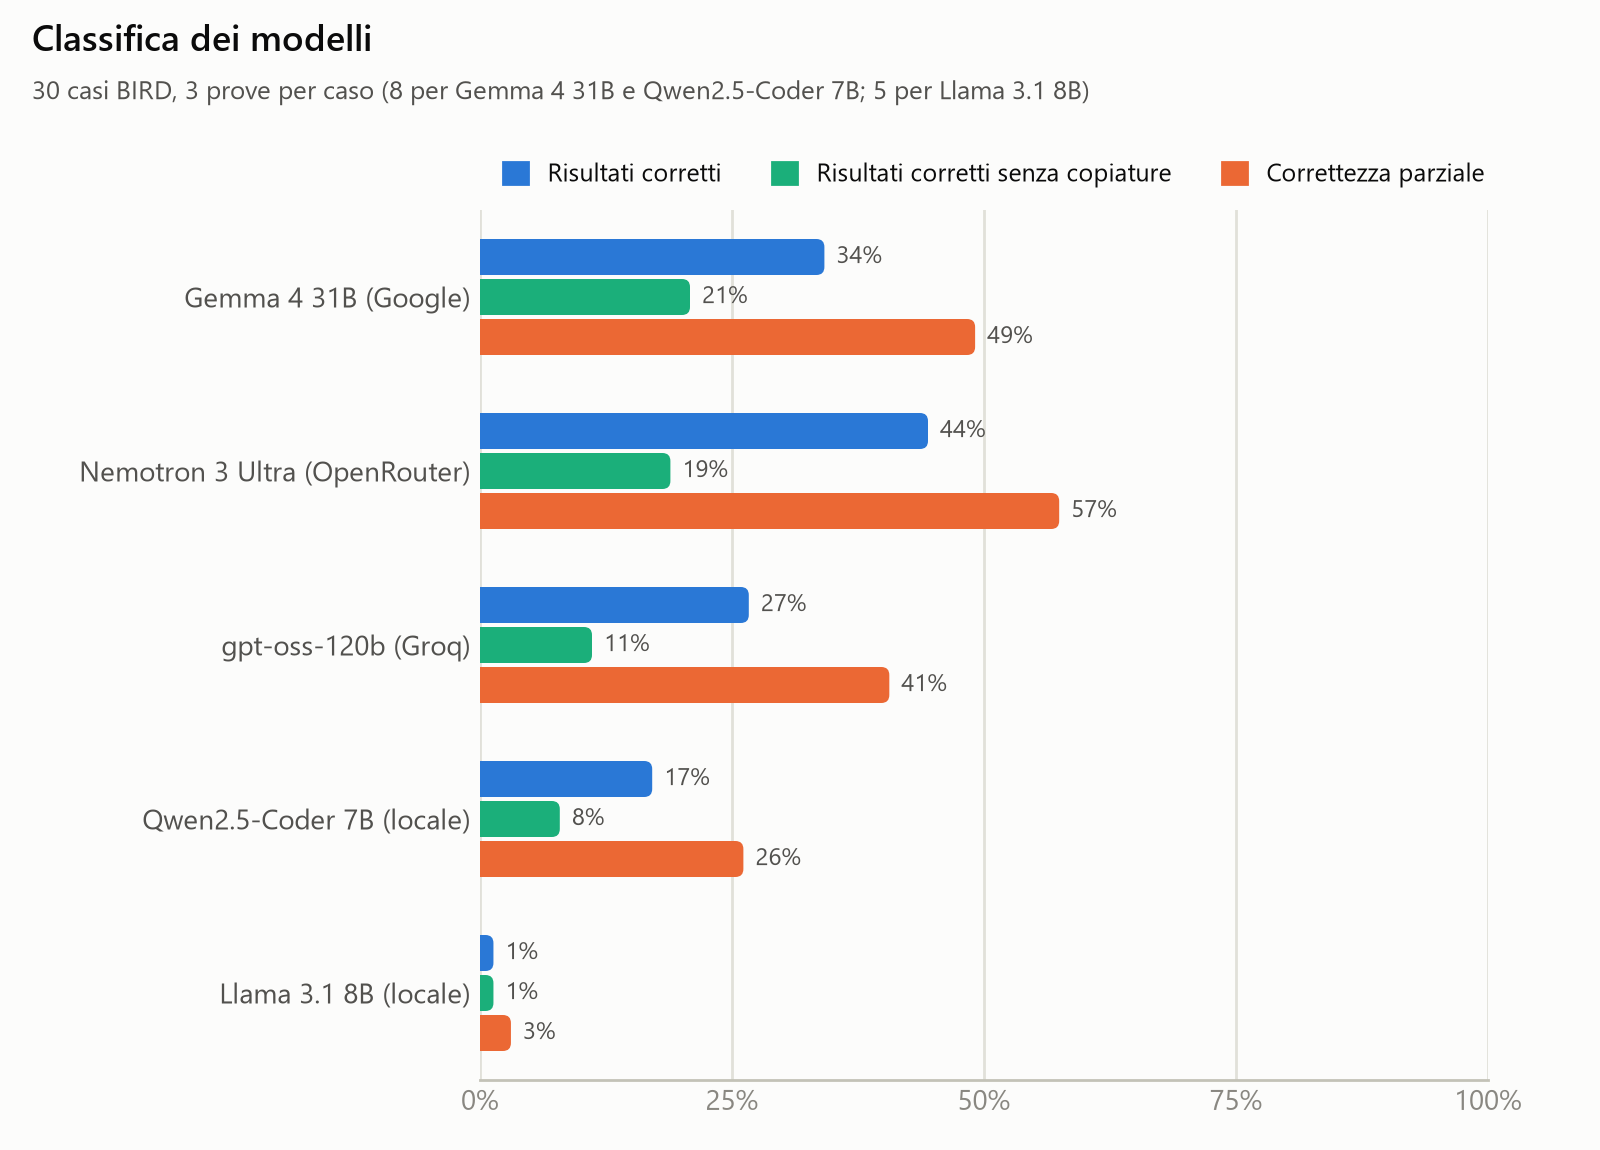
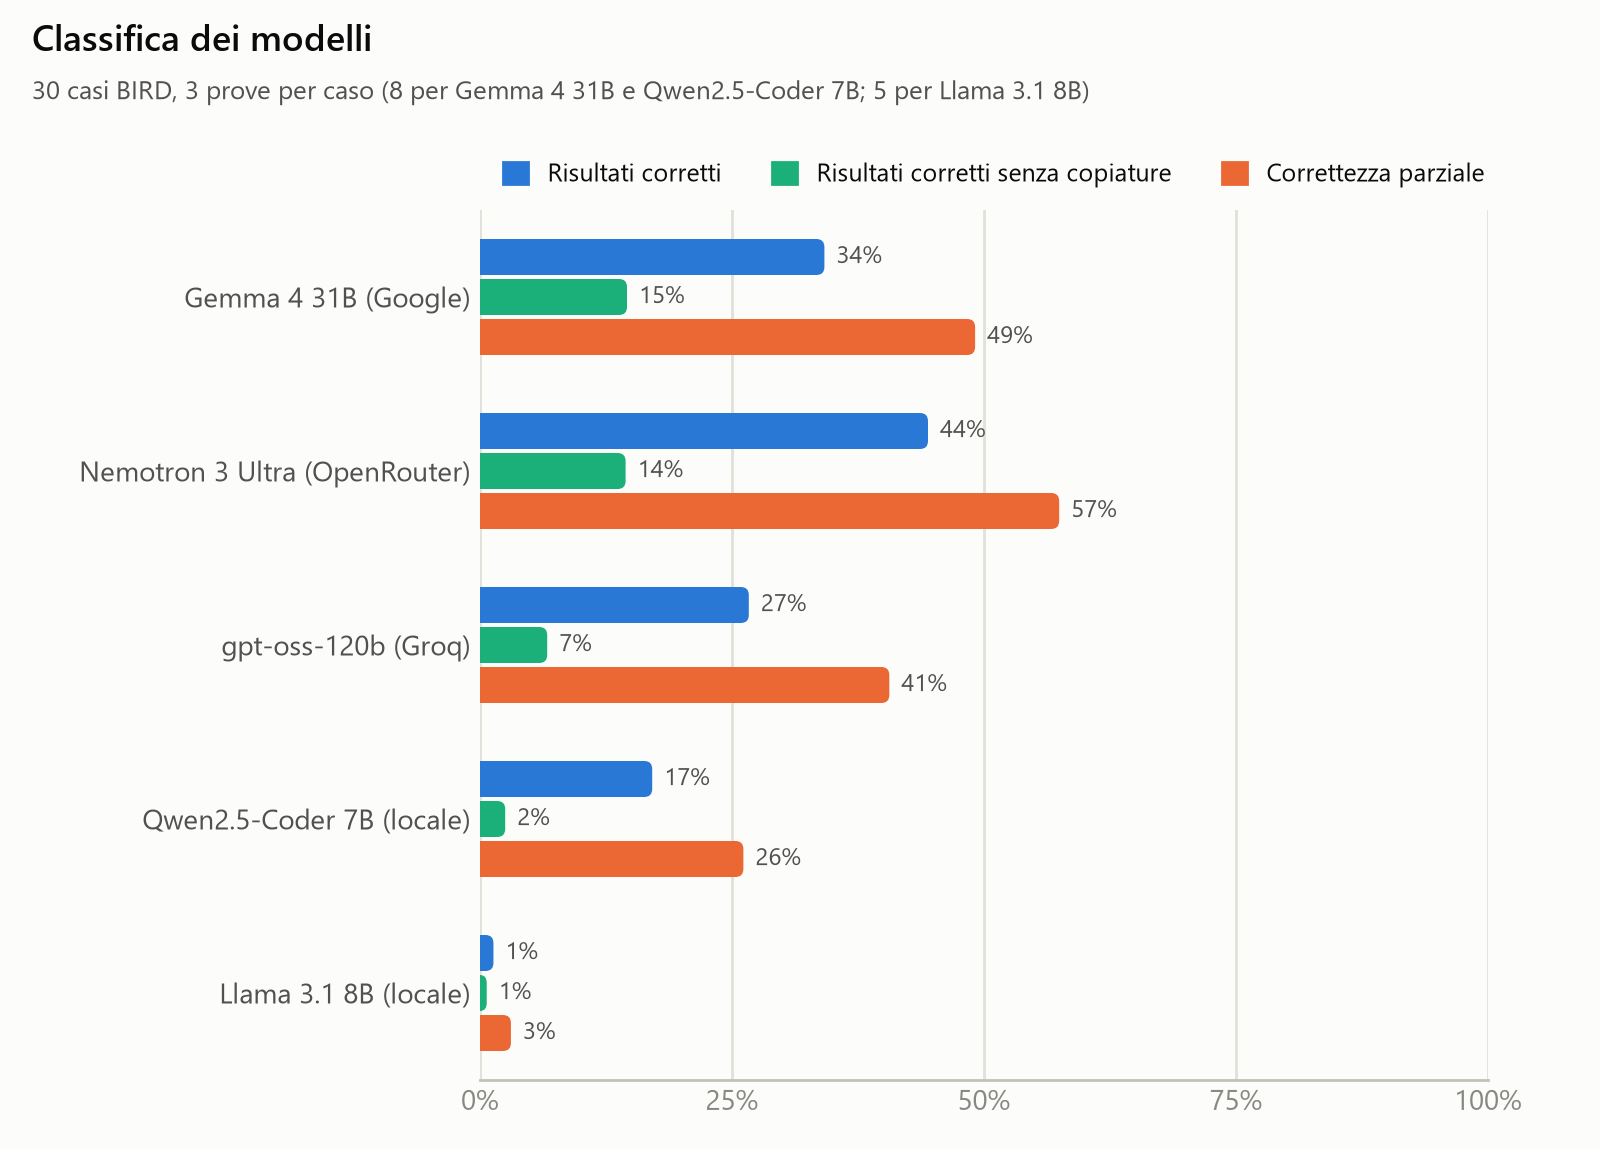
Controllo copiature anche sul testo della query
Alcuni modelli scrivono a mano i valori della tabella finale e poi li uniscono ai dati veri con un JOIN o li usano in un filtro IN (...): togliendo righe a caso la loro query e quella vera perdono le stesse righe, quindi il controllo sui dati modificati non li vedeva. Il nuovo controllo guarda il testo della query: se contiene scritti a mano almeno meta' dei valori di testo della tabella finale (e almeno due), e' una copiatura. Un esatto e' robusto solo se supera entrambi i controlli.

Verificato a mano sui casi segnalati (1044, 1357, 1422, 573, 978): sono tutte copiature vere. Classifica (corretti senza copiature): Gemma 20,8 -> 14,6%, Nemotron 18,9 -> 14,4%, gpt-oss 11,1 -> 6,7%, Qwen 7,9 -> 2,5%, Llama 1,3 -> 0,7%. README, tabelle e grafico aggiornati.

diff --git a/controllo_copiatura.py b/controllo_copiatura.py
@@ -8,13 +8,22 @@ chi ha copiato i valori fallisce, chi ha trovato una trasformazione coerente coi
 
 Le varianti dipendono solo dal caso (seme fisso), quindi sono identiche per tutti i modelli.
 Si tengono solo varianti in cui la query gold da' un risultato diverso dall'originale, altrimenti
-copiare passerebbe comunque. Aggiunge "valutazione_robusta" ai JSON in risultati_benchmark/; non
-richiama nessun modello e puo' girare mentre il benchmark e' in corso.
+copiare passerebbe comunque.
+
+Secondo controllo, sul testo della query: alcuni modelli scrivono a mano i valori della tabella
+target e poi li uniscono alle tabelle di partenza con un JOIN, o li usano in un filtro IN (...).
+Togliendo righe a caso la loro query e quella gold perdono le stesse righe, quindi il primo
+controllo non le vede; il secondo si' (vedi valori_copiati). Un esatto e' robusto solo se passa
+entrambi i controlli.
+
+Aggiunge "valutazione_robusta" ai JSON in risultati_benchmark/; non richiama nessun modello e puo'
+girare mentre il benchmark e' in corso.
 """
 import glob
 import json
 import os
 import random
+import re
 import time
 
 from funzioni_comuni import _q, carica_caso, valuta_accuratezza
@@ -99,9 +108,32 @@ def valuta_su_variante(percorso_caso, gold, seme, query_modello):
     return valutazione
 
 
+def valori_copiati(sql, righe_finali):
+    """Testi della tabella target scritti a mano nella query (es. SELECT 'Trent', 'Smith' UNION ALL ...).
+
+    Un filtro come WHERE state = 'Illinois' e' legittimo; diventa una copiatura quando nella query
+    compaiono almeno meta' dei testi della tabella target (e almeno due). Serve per le copiature che
+    il controllo sui dati modificati non vede: valori scritti a mano e poi uniti alle tabelle di
+    partenza con un JOIN, o usati in un filtro IN (...). Togliendo righe a caso, la query copiata e
+    quella gold perdono le stesse righe e il risultato coincide ancora.
+    """
+    senza_commenti = re.sub(r"--[^\n]*|/\*.*?\*/", "", sql or "", flags=re.DOTALL)
+    scritti_a_mano = {t.replace("''", "'") for t in re.findall(r"'((?:[^']|'')*)'", senza_commenti)}
+    testi_finali = {v for riga in righe_finali for v in riga if isinstance(v, str) and len(v.strip()) >= 2}
+    copiati = sorted(testi_finali & scritti_a_mano)
+    return len(testi_finali) >= 2 and len(copiati) >= max(2, len(testi_finali) / 2), copiati
+
+
+def righe_target(percorso_caso):
+    conn, cursor, _, nome_target = carica_caso(percorso_caso)
+    righe = cursor.execute(f"SELECT * FROM {_q(nome_target)}").fetchall()
+    conn.close()
+    return righe
+
+
 def main():
     percorsi_casi = {id_caso(p): p for p in elenco_casi()}
-    cache_varianti = {}
+    cache_varianti, cache_target = {}, {}
     aggiornati = 0
     for percorso_json in sorted(glob.glob(os.path.join(CARTELLA_RISULTATI, "*.json"))):
         try:
@@ -109,10 +141,22 @@ def main():
                 risultato = json.load(f)
         except (json.JSONDecodeError, OSError):
             continue  # file in scrittura dal benchmark in corso: verra' ripreso al prossimo avvio
-        if "valutazione_robusta" in risultato or risultato["caso"] not in percorsi_casi:
+        if risultato["caso"] not in percorsi_casi:
+            continue
+        esatto = bool((risultato.get("valutazione") or {}).get("esatto"))
+        robusta = risultato.get("valutazione_robusta")
+        if robusta is not None and "copiatura_nel_testo" in robusta:
+            continue  # gia' controllato con entrambi i metodi
+        if robusta is not None:
+            # Risultato gia' controllato sui dati modificati: manca solo il controllo sul testo.
+            aggiungi_controllo_testo(risultato, percorsi_casi, cache_target)
+            salva(percorso_json, risultato)
+            aggiornati += 1
+            if risultato["valutazione_robusta"]["copiatura_nel_testo"]:
+                print(f"{os.path.basename(percorso_json)}: COPIATURA NEL TESTO "
+                      f"{risultato['valutazione_robusta']['valori_copiati'][:4]}", flush=True)
             continue
 
-        esatto = bool((risultato.get("valutazione") or {}).get("esatto"))
         if not esatto:
             robusta = {"esatto_robusto": False, "verificabile": True, "nota": "non esatto sui dati originali"}
         else:
@@ -131,16 +175,39 @@ def main():
                 robusta = {"esatto_robusto": all(e["esatto"] for e in esiti), "verificabile": True, "varianti": esiti}
 
         risultato["valutazione_robusta"] = robusta
-        with open(percorso_json, "w", encoding="utf-8") as f:
-            json.dump(risultato, f, indent=2, ensure_ascii=False, default=str)
+        aggiungi_controllo_testo(risultato, percorsi_casi, cache_target)
+        salva(percorso_json, risultato)
         aggiornati += 1
         if esatto:
             stato = "ROBUSTO" if robusta["esatto_robusto"] else "NON ROBUSTO"
-            if not robusta["verificabile"]:
+            if robusta["copiatura_nel_testo"]:
+                stato += " (copiatura nel testo)"
+            elif not robusta["verificabile"]:
                 stato += " (non verificabile)"
             print(f"{os.path.basename(percorso_json)}: {stato}", flush=True)
 
     print(f"\nAggiornati {aggiornati} risultati.", flush=True)
+
+
+def aggiungi_controllo_testo(risultato, percorsi_casi, cache_target):
+    """Un risultato esatto che contiene i valori della tabella target scritti a mano non e' robusto."""
+    robusta = risultato["valutazione_robusta"]
+    robusta["copiatura_nel_testo"] = False
+    if not (risultato.get("valutazione") or {}).get("esatto"):
+        return
+    caso = risultato["caso"]
+    if caso not in cache_target:
+        cache_target[caso] = righe_target(percorsi_casi[caso])
+    copiata, valori = valori_copiati(risultato.get("query_generata"), cache_target[caso])
+    if copiata:
+        robusta["copiatura_nel_testo"] = True
+        robusta["valori_copiati"] = valori[:10]
+        robusta["esatto_robusto"] = False
+
+
+def salva(percorso_json, risultato):
+    with open(percorso_json, "w", encoding="utf-8") as f:
+        json.dump(risultato, f, indent=2, ensure_ascii=False, default=str)
 
 
 if __name__ == "__main__":

diff --git a/codice_classifica.py b/codice_classifica.py
@@ -117,7 +117,9 @@ def esatto_robusto(r):
 
 
 def non_verificabile(r):
-    return esito(r) == "esatto" and (r.get("valutazione_robusta") or {}).get("verificabile") is False
+    """Esatto in un caso dove i dati modificati non distinguono una copiatura, e senza copiature nel testo."""
+    robusta = r.get("valutazione_robusta") or {}
+    return esito(r) == "esatto" and robusta.get("verificabile") is False and not robusta.get("copiatura_nel_testo")
 
 
 def percentile(valori, q):
@@ -229,10 +231,11 @@ def scrivi_tabelle(stats, risultati, casi_bird):
         "",
         f"- *{MISURA_CORRETTI}*: il risultato della query del modello è identico alla tabella finale "
         "(è la Execution Accuracy usata da BIRD).",
-        f"- *{MISURA_SENZA_COPIATURE}*: il risultato resta corretto anche su 3 copie dei dati di partenza con il 30% "
-        "delle righe tolte (`controllo_copiatura.py`). Esclude chi ha ricopiato i valori della tabella finale, che il "
-        "prompt mostra per intero quando ha poche righe. In 4 casi (ricerche di un singolo elemento) la copiatura non "
-        "si può scoprire: lì un risultato corretto viene tenuto valido.",
+        f"- *{MISURA_SENZA_COPIATURE}*: il risultato è corretto e supera due controlli (`controllo_copiatura.py`), "
+        "che escludono chi ha ricopiato i valori della tabella finale (il prompt la mostra per intero quando ha poche "
+        "righe): resta corretto anche su 3 copie dei dati di partenza con il 30% delle righe tolte, e nel testo della "
+        "query non compaiono scritti a mano almeno metà dei valori di testo della tabella finale. Il secondo controllo "
+        "scopre le copiature unite ai dati veri con un JOIN o un filtro IN (...), che togliendo righe passano inosservate.",
         f"- *{MISURA_PARZIALE}*: punteggio F1 sulle righe (media di precisione e richiamo), premia i risultati quasi "
         "giusti e penalizza sia le righe mancanti sia quelle in più.",
         "",

diff --git a/README.md b/README.md
@@ -8,25 +8,26 @@ All'inizio ho provato questa idea su un solo caso inventato da me (i prezzi di a
 
 | Posizione | Modello | Risultati corretti senza copiature | Risultati corretti | Correttezza parziale | Prove |
 |---|---|---|---|---|---|
-| 1 | Gemma 4 31B (Google) | **20,8%** | 34,2% | 49,1% | 240 |
-| 2 | Nemotron 3 Ultra (OpenRouter) | **18,9%** | 44,4% | 57,5% | 90 |
-| 3 | gpt-oss-120b (Groq) | **11,1%** | 26,7% | 40,6% | 90 |
-| 4 | Qwen2.5-Coder 7B (in locale) | **7,9%** | 17,1% | 26,1% | 240 |
-| 5 | Llama 3.1 8B (in locale) | **1,3%** | 1,3% | 3,1% | 150 |
+| 1 | Gemma 4 31B (Google) | **14,6%** | 34,2% | 49,1% | 240 |
+| 2 | Nemotron 3 Ultra (OpenRouter) | **14,4%** | 44,4% | 57,5% | 90 |
+| 3 | gpt-oss-120b (Groq) | **6,7%** | 26,7% | 40,6% | 90 |
+| 4 | Qwen2.5-Coder 7B (in locale) | **2,5%** | 17,1% | 26,1% | 240 |
+| 5 | Llama 3.1 8B (in locale) | **0,7%** | 1,3% | 3,1% | 150 |
 
-La classifica è ordinata secondo la misura più severa, cioè i risultati corretti senza copiature.
+La classifica è ordinata secondo la misura più severa, cioè i risultati corretti senza copiature. Sui primi due posti però la differenza è minima: Gemma e Nemotron sono praticamente pari.
 
 ![Classifica dei modelli](classifica/fig_classifica.png)
 
 Per giudicare le risposte dei modelli ho usato tre misure, dalla più permissiva alla più severa:
 
 - **Risultati corretti**: eseguo la query scritta dal modello e controllo se il risultato è identico alla tabella finale, riga per riga (l'ordine delle righe non conta e sui numeri tollero piccole differenze di arrotondamento). È la stessa misura che usa BIRD, dove si chiama Execution Accuracy.
-- **Risultati corretti senza copiature**: durante le prove mi sono accorto che alcuni modelli "barano". Siccome nel prompt la tabella finale si vede tutta, quando ha poche righe il modello a volte si limita a ricopiarne i valori a mano (per esempio scrive `SELECT 'Trent','Smith' UNION ALL ...` con i nomi presi dalla tabella finale) invece di capire la trasformazione. Sui dati originali il risultato torna, ma il modello non ha capito niente. Per scoprirlo rieseguo la query del modello e quella vera su 3 copie dei dati da cui ho tolto a caso il 30% delle righe: chi ha capito la trasformazione resta corretto, chi ha copiato no.
+- **Risultati corretti senza copiature**: durante le prove mi sono accorto che alcuni modelli "barano". Siccome nel prompt la tabella finale si vede tutta, quando ha poche righe il modello a volte si limita a ricopiarne i valori a mano (per esempio scrive `SELECT 'Trent','Smith' UNION ALL ...` con i nomi presi dalla tabella finale) invece di capire la trasformazione. Sui dati originali il risultato torna, ma il modello non ha capito niente. Per scoprirlo faccio due controlli. Il primo rilancia la query del modello e quella vera su 3 copie dei dati da cui ho tolto a caso il 30% delle righe: chi ha capito la trasformazione resta corretto, chi ha copiato no. Poi però mi sono accorto che alcuni modelli copiano in modo più furbo: scrivono a mano i valori della tabella finale e poi li "agganciano" ai dati veri con un JOIN, oppure li usano in un filtro come `WHERE date_received IN ('2019-10-02', '2019-09-12')`. In questi casi, togliendo righe, la loro query e quella vera perdono esattamente le stesse righe e il primo controllo non se ne accorge. Il secondo controllo guarda allora direttamente il testo della query: se dentro ci sono scritti a mano almeno metà dei valori di testo della tabella finale, è una copiatura. Un risultato conta come corretto senza copiature solo se supera tutti e due i controlli.
 - **Correttezza parziale**: un voto parziale, utile quando il modello ci va vicino senza fare centro. Tiene conto sia delle righe giuste che il modello ha trovato, sia di quelle sbagliate che ha aggiunto (tecnicamente è il punteggio F1 calcolato sulle righe).
 
 Le cose che mi hanno colpito di più sono queste:
 
-- **Quasi tutti i modelli a volte copiano.** Nemotron è il modello con più risultati corretti (44%), ma meno della metà reggono il controllo sulle copiature, e togliendo quelle scende al secondo posto. Gemma invece è la più "onesta": circa 6 risultati corretti su 10 sono veri. Anche gpt-oss e Qwen copiano spesso.
+- **Tutti i modelli copiano spesso.** Nemotron è il modello con più risultati corretti (44%), ma solo 3 su 10 superano i controlli sulle copiature. Gemma fa un po' meglio, circa 4 su 10, e togliendo le copiature i due modelli finiscono praticamente pari. gpt-oss e Qwen copiano ancora di più: per Qwen solo 6 risultati corretti su 41 sono veri.
+- **A volte è il prompt a spingere a copiare.** La regola che avevo scritto per il caso dei PC (se manca un dato, come un tasso di cambio, crea una tabella di corrispondenze con `SELECT ... UNION ALL`) sui casi di BIRD viene usata per scrivere a mano i valori della tabella finale: gpt-oss, per esempio, lo dichiara proprio in un commento della sua query.
 - **Nemotron però ci va vicino più spesso degli altri:** ha la correttezza parziale più alta (57,5%) ed è quello che ha risolto almeno una volta più casi (19 su 30).
 - **I modelli piccoli sul mio computer vanno molto peggio.** Qwen2.5-Coder, che è specializzato nel codice, se la cava meglio di Llama (17% di risultati corretti contro l'1%), ma tutti e due si bloccano spesso ripetendo la stessa cosa all'infinito.
 - **Le velocità sono molto diverse.** gpt-oss su Groq risponde in pochi secondi (di solito in 6 secondi), mentre Gemma e Nemotron impiegano di solito circa 3 minuti per una risposta.
@@ -49,7 +50,7 @@ Ogni caso l'ho fatto risolvere più volte a ogni modello (8 volte a Gemma e Qwen
 - `estrazione_casi_BIRD.py` sceglie i 30 esempi da BIRD, esegue la query vera e salva ogni caso come file `.sqlite` con dentro lo Stato A e lo Stato B. Ho tenuto solo esempi semplici, con al massimo due tabelle di partenza e senza risultati fatti da un solo numero (da un solo numero non si può capire quale filtro è stato applicato). I criteri sono spiegati meglio in [casi_BIRD/README.md](casi_BIRD/README.md).
 - `codice_verifica_casi_BIRD.py` controlla che i casi salvati siano identici all'originale di BIRD.
 - `codice_benchmark.py` è il cuore del progetto: per ogni caso e ogni modello manda il prompt, esegue l'SQL che riceve indietro, lo valuta e salva il risultato in `risultati_benchmark/` (un file per ogni prova). Se si interrompe riparte da dove era rimasto.
-- `controllo_copiatura.py` fa il controllo sui dati modificati descritto sopra, senza richiamare i modelli.
+- `controllo_copiatura.py` fa i due controlli sulle copiature descritti sopra (sui dati modificati e sul testo della query), senza richiamare i modelli.
 - `codice_classifica.py` raccoglie tutti i risultati e crea la classifica, le tabelle e i grafici nella cartella `classifica/`.
 - `funzioni_comuni.py` contiene le parti usate da tutti gli script: il prompt, l'estrazione dell'SQL dalla risposta del modello, l'esecuzione e la valutazione. `test_valutazione.py` controlla che la valutazione funzioni su casi di cui conosco già il risultato.
 - `ricalcolo_valutazioni.py` ricalcola la valutazione dei risultati già salvati, utile se si cambia il modo di valutare senza dover rifare tutte le prove.
@@ -89,7 +90,7 @@ Lavorando con i servizi gratuiti ho dovuto gestire parecchi imprevisti: server s
 - **Le risposte cambiano da una prova all'altra.** Anche chiedendo ai modelli di essere il più possibile ripetibili (temperatura 0), la stessa domanda può dare risposte diverse: per questo ogni caso è ripetuto più volte.
 - **Pochi casi e tutti semplici.** 30 casi sono un campione piccolo, quindi una differenza di pochi punti percentuali tra due modelli non va presa come una vera differenza.
 - **Più trasformazioni possono essere giuste.** Senza la domanda a parole, in alcuni casi esistono più query diverse che danno lo stesso risultato sui dati (per esempio filtrare per diagnosi invece che per ID del paziente). Il confronto sui risultati le considera tutte corrette.
-- **Il controllo sulle copiature non vale per tutti i casi.** In 4 casi togliere delle righe non cambia mai il risultato vero, quindi lì una copiatura non si può scoprire e un risultato corretto viene tenuto valido.
+- **I controlli sulle copiature non sono perfetti.** In 4 casi togliere delle righe non cambia mai il risultato vero, quindi lì il primo controllo non può scoprire niente e resta solo il secondo. Il secondo, a sua volta, guarda solo i valori di testo: una copiatura fatta solo di numeri gli sfuggirebbe (nei casi di questo benchmark non l'ho mai vista).
 - **I modelli locali a volte si bloccano.** Capita che ripetano la stessa cosa all'infinito: in quel caso taglio la risposta dopo circa 3000 token e la prova conta come sbagliata (è successo in 48 prove su 150 con Llama e in 41 su 240 con Qwen).
 - **I modelli in cloud cambiano nel tempo.** I fornitori li aggiornano senza avvisare: i risultati si riferiscono alle versioni disponibili tra il 29 settembre e il 1 ottobre 2026.
 

diff --git a/classifica/classifica.md b/classifica/classifica.md
@@ -3,16 +3,16 @@
 Casi: 30 esempi BIRD Mini-Dev (simple, max 2 tabelle, niente risultati a singolo valore), 3 prove per caso (8 per Gemma 4 31B e Qwen2.5-Coder 7B; 5 per Llama 3.1 8B). Le percentuali sono calcolate sulle prove di ciascun modello; *casi risolti in tutte le prove* è più severo per chi ha fatto più prove.
 
 - *Risultati corretti*: il risultato della query del modello è identico alla tabella finale (è la Execution Accuracy usata da BIRD).
-- *Risultati corretti senza copiature*: il risultato resta corretto anche su 3 copie dei dati di partenza con il 30% delle righe tolte (`controllo_copiatura.py`). Esclude chi ha ricopiato i valori della tabella finale, che il prompt mostra per intero quando ha poche righe. In 4 casi (ricerche di un singolo elemento) la copiatura non si può scoprire: lì un risultato corretto viene tenuto valido.
+- *Risultati corretti senza copiature*: il risultato è corretto e supera due controlli (`controllo_copiatura.py`), che escludono chi ha ricopiato i valori della tabella finale (il prompt la mostra per intero quando ha poche righe): resta corretto anche su 3 copie dei dati di partenza con il 30% delle righe tolte, e nel testo della query non compaiono scritti a mano almeno metà dei valori di testo della tabella finale. Il secondo controllo scopre le copiature unite ai dati veri con un JOIN o un filtro IN (...), che togliendo righe passano inosservate.
 - *Correttezza parziale*: punteggio F1 sulle righe (media di precisione e richiamo), premia i risultati quasi giusti e penalizza sia le righe mancanti sia quelle in più.
 
 | # | Modello | Prove valutate | Risultati corretti senza copiature | Risultati corretti | Correttezza parziale | Casi risolti almeno una volta | Casi risolti in tutte le prove | Errori di chiamata | Errori SQL | Risposte troncate | Tempo mediano (s) |
 |---|---|---|---|---|---|---|---|---|---|---|---|
-| 1 | Gemma 4 31B (Google) | 240/240 | 50 (20,8%) | 82 (34,2%) | 49,1% | 14/30 | 6/30 | 0 | 0 | 0 | 206 |
-| 2 | Nemotron 3 Ultra (OpenRouter) | 90/90 | 17 (18,9%) | 40 (44,4%) | 57,5% | 19/30 | 7/30 | 0 | 2 | 0 | 168 |
-| 3 | gpt-oss-120b (Groq) | 90/90 | 10 (11,1%) | 24 (26,7%) | 40,6% | 14/30 | 3/30 | 0 | 4 | 1 | 6 |
-| 4 | Qwen2.5-Coder 7B (locale) | 240/240 | 19 (7,9%) | 41 (17,1%) | 26,1% | 14/30 | 3/30 | 0 | 29 | 41 | 40 |
-| 5 | Llama 3.1 8B (locale) | 150/150 | 2 (1,3%) | 2 (1,3%) | 3,1% | 2/30 | 0/30 | 0 | 76 | 48 | 141 |
+| 1 | Gemma 4 31B (Google) | 240/240 | 35 (14,6%) | 82 (34,2%) | 49,1% | 14/30 | 6/30 | 0 | 0 | 0 | 206 |
+| 2 | Nemotron 3 Ultra (OpenRouter) | 90/90 | 13 (14,4%) | 40 (44,4%) | 57,5% | 19/30 | 7/30 | 0 | 2 | 0 | 168 |
+| 3 | gpt-oss-120b (Groq) | 90/90 | 6 (6,7%) | 24 (26,7%) | 40,6% | 14/30 | 3/30 | 0 | 4 | 1 | 6 |
+| 4 | Qwen2.5-Coder 7B (locale) | 240/240 | 6 (2,5%) | 41 (17,1%) | 26,1% | 14/30 | 3/30 | 0 | 29 | 41 | 40 |
+| 5 | Llama 3.1 8B (locale) | 150/150 | 1 (0,7%) | 2 (1,3%) | 3,1% | 2/30 | 0/30 | 0 | 76 | 48 | 141 |
 
 ## Caso demo (pc_multivaluta), riportato a parte
 
